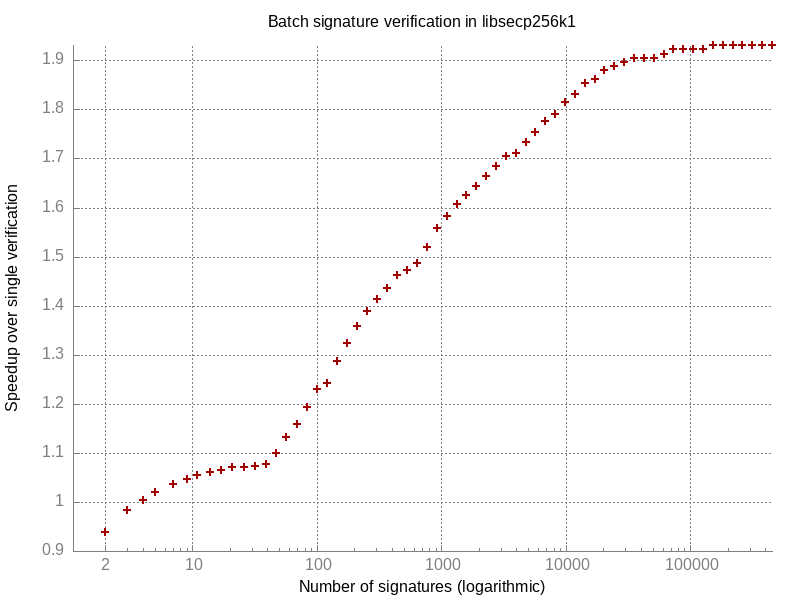
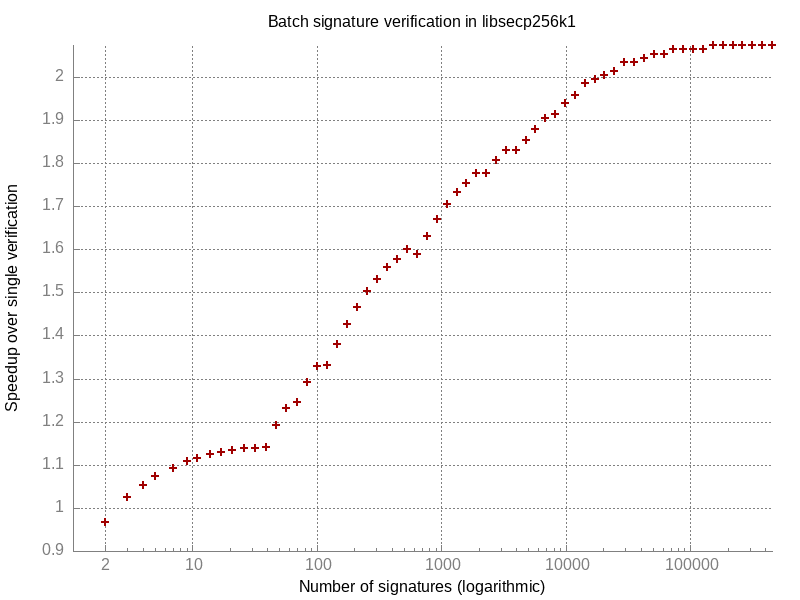
for benchmarks only: use 128 bit randomizer
This is just a commit for benchmarks and should be improved if 128 bit
randomizers are to be actually used.
1) it does not follow bip-schnorr batch verification
2) the randomizers are not uniformly distributed in [0, 2^128-1] for no reason
3) chacha output is thrown away

diff --git a/src/modules/schnorrsig/main_impl.h b/src/modules/schnorrsig/main_impl.h
@@ -265,6 +265,7 @@ static int secp256k1_schnorrsig_verify_batch_ecmult_callback(secp256k1_scalar *s
          * (-randomizer_cache[1], R2)
          * (-randomizer_cache[1]*e2, P2) */
         secp256k1_scalar_chacha20(&ecmult_context->randomizer_cache[0], &ecmult_context->randomizer_cache[1], ecmult_context->chacha_seed, idx / 4);
+        secp256k1_scalar_split_128(&ecmult_context->randomizer_cache[0], &ecmult_context->randomizer_cache[1], &ecmult_context->randomizer_cache[1]);
     }
 
     /* R */
@@ -367,6 +368,7 @@ static int secp256k1_schnorrsig_verify_batch_sum_s(secp256k1_scalar *s, unsigned
         secp256k1_scalar term;
         if (i % 2 == 1) {
             secp256k1_scalar_chacha20(&randomizer_cache[0], &randomizer_cache[1], chacha_seed, i / 2);
+            secp256k1_scalar_split_128(&randomizer_cache[0], &randomizer_cache[1], &randomizer_cache[1]);
         }
 
         secp256k1_scalar_set_b32(&term, &sig[i][32], &overflow);
